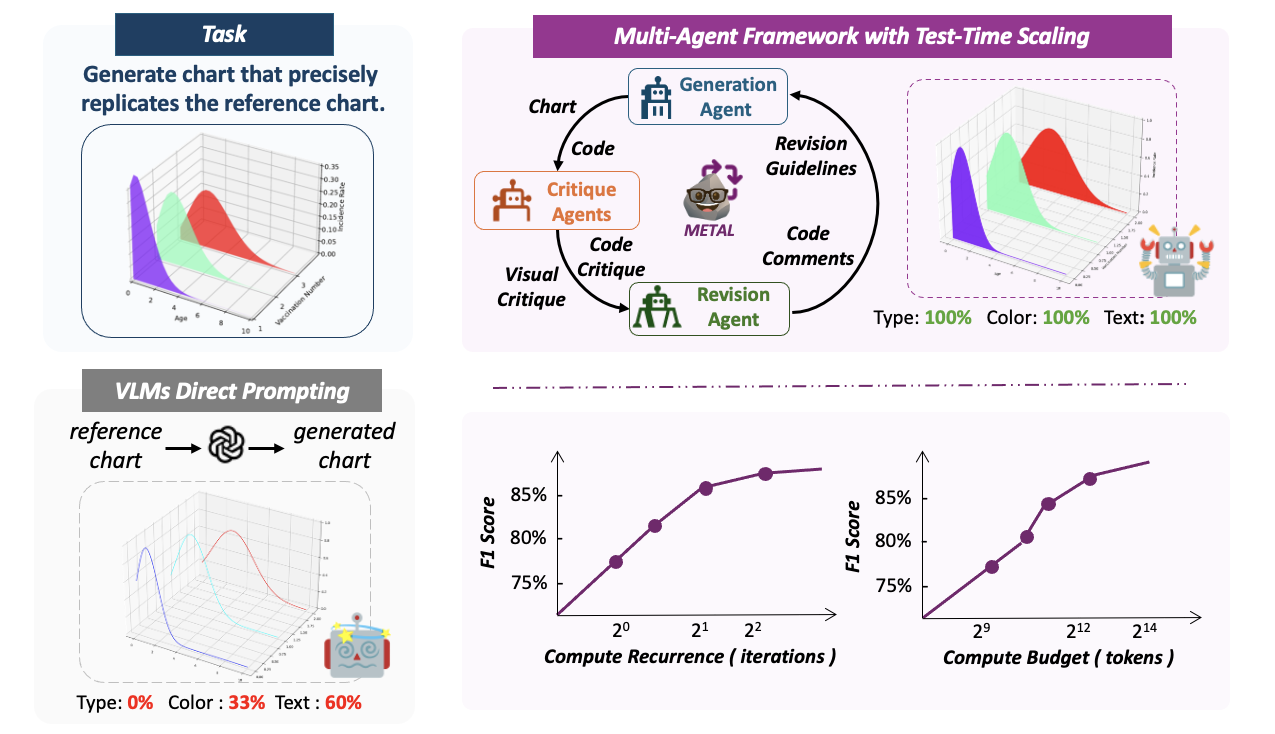
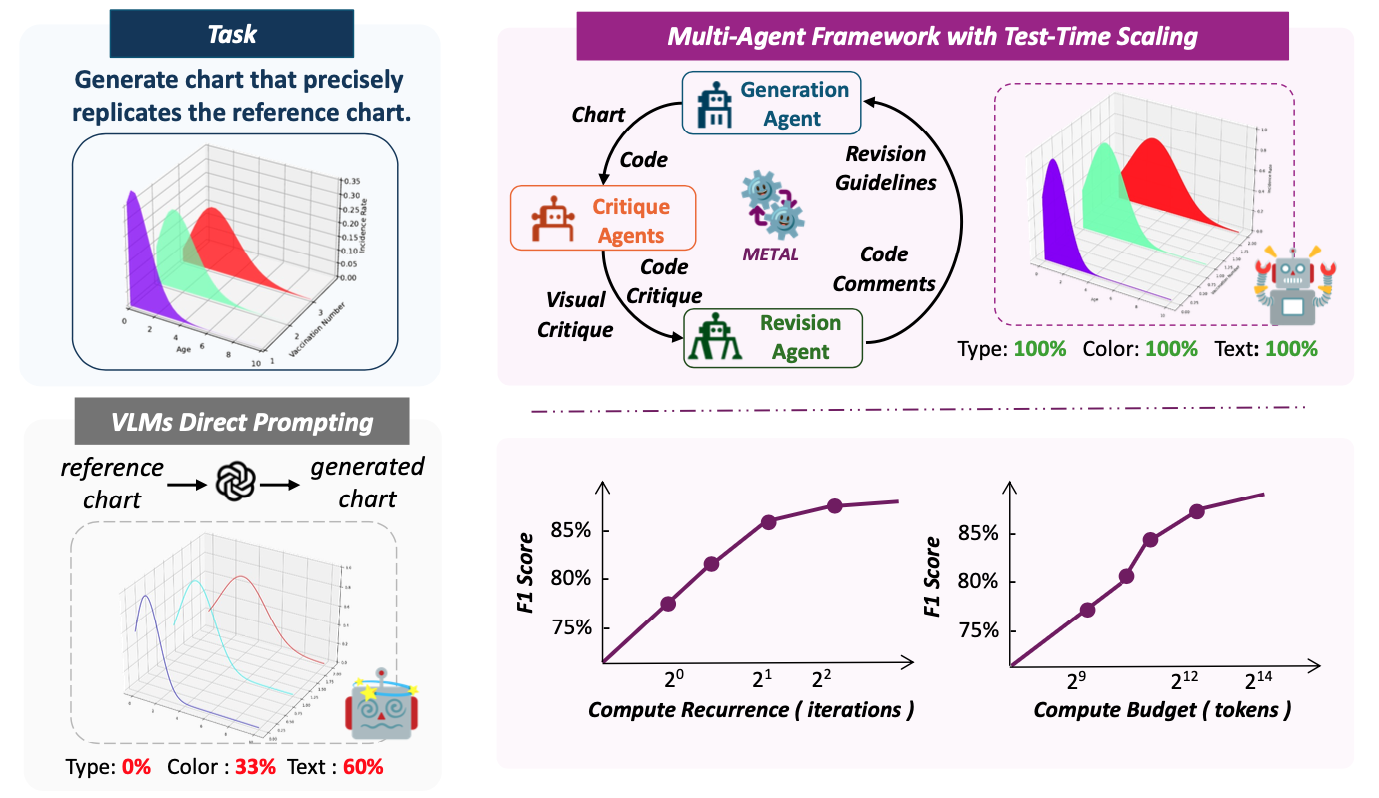
reduce image size

diff --git a/index.html b/index.html
@@ -195,7 +195,7 @@
     <section class="hero teaser">
       <div class="container is-max-desktop">
         <div class="hero-body">
-          <img src="static/imgs/teaser.pdf" alt="Teaser" width="100%" />
+          <img src="static/imgs/teaser.png" alt="Teaser" width="100%" />
           <br />
           <br />
           <h2 class="subtitle has-text-centered">
@@ -260,7 +260,7 @@
           <div class="column is-11">
             <h2 class="title is-3">Method</h2>
             <div class="content has-text-justified">
-              <img src="static/imgs/method.pdf" alt="Workflow" width="100%" />
+              <img src="static/imgs/method.png" alt="Workflow" width="100%" />
               <br />
               <br />
               <p class="is-size-5">
@@ -425,7 +425,7 @@
             <h2 class="title is-3">Case Study</h2>
             <div class="content has-text-justified">
               <img
-                src="static/imgs/case_study.pdf"
+                src="static/imgs/case_study.png"
                 alt="CaseStudy"
                 width="100%"
               />
